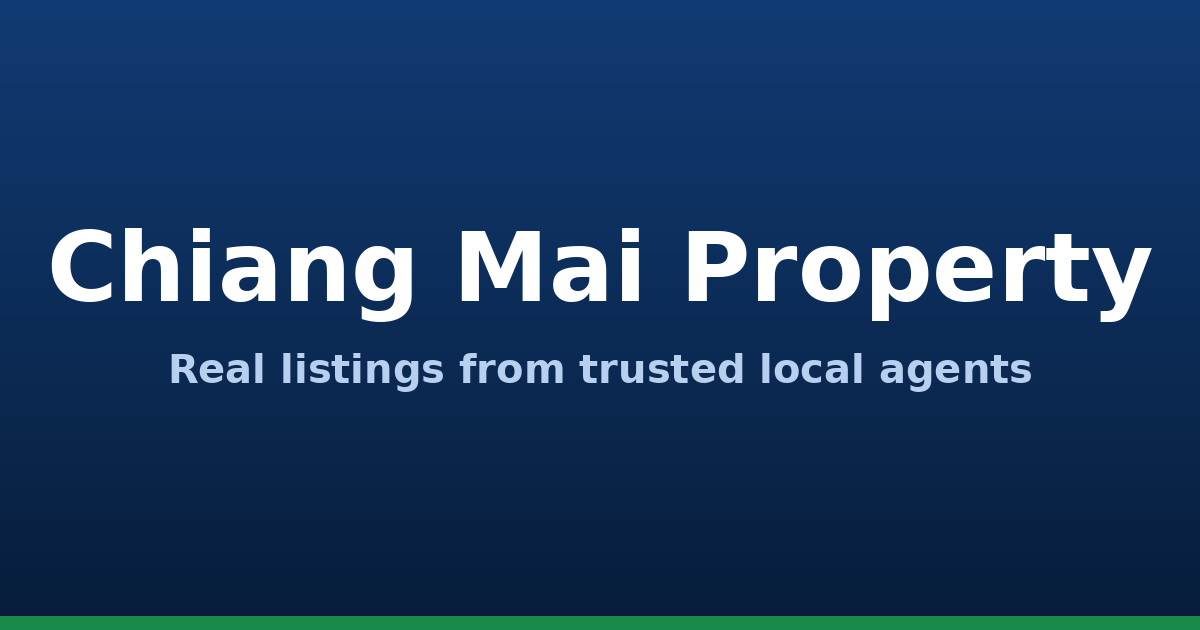
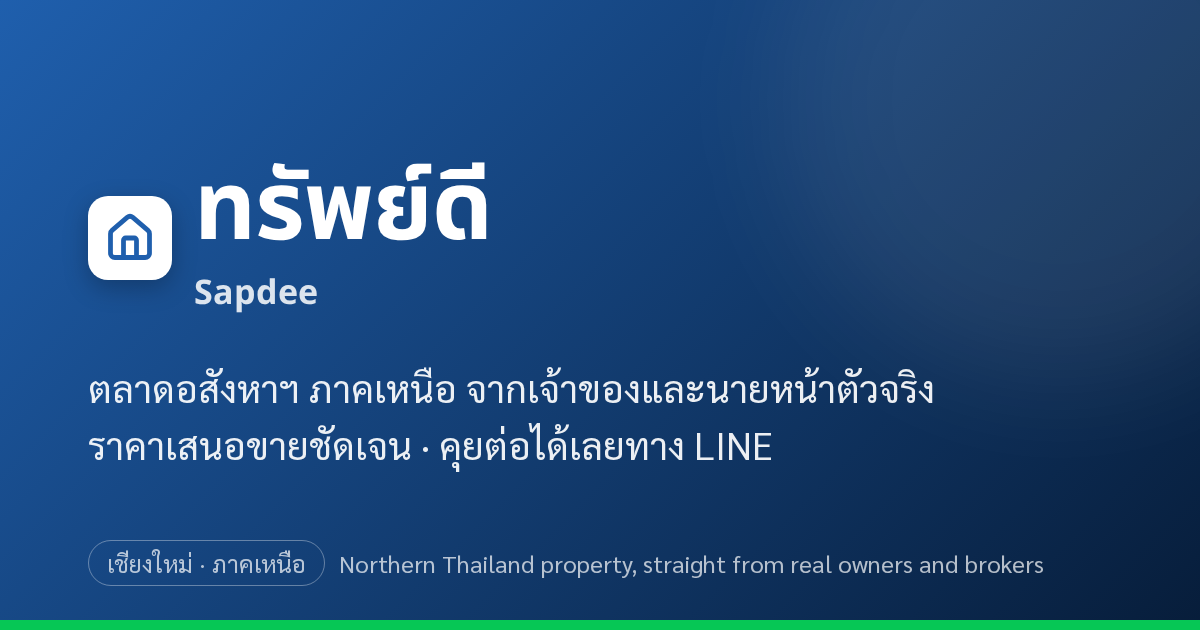
feat(website): branded Open Graph card; drop unused legacy home i18n keys
- og-default.png regenerated from an HTML card with the brand gradient, mark, ทรัพย์ดี/Sapdee
  wordmark and tagline in the site fonts (was a generic 'Chiang Mai Property' image). Script:
  e2e/adhoc/og-image.mjs.
- home.title / home.description / home.preparing had no remaining consumers.

diff --git a/packages/ui/src/i18n/th.ts b/packages/ui/src/i18n/th.ts
@@ -86,9 +86,6 @@ export const th = {
   "error.retry": "ลองใหม่",
 
   // Public website (Stage 4)
-  "home.title": "ประกาศอสังหาริมทรัพย์",
-  "home.description": "ค้นหาบ้าน ที่ดิน คอนโด จากเจ้าของโดยตรง",
-  "home.preparing": "กำลังเตรียมรายการประกาศ",
   "filter.dealType": "ซื้อ/เช่า",
   "filter.province": "จังหวัด",
   "filter.search": "ค้นหา",

diff --git a/packages/ui/src/i18n/en.ts b/packages/ui/src/i18n/en.ts
@@ -65,9 +65,6 @@ export const en: Record<keyof typeof th, string> = {
   "error.why": "A temporary connection problem",
   "error.retry": "Retry",
 
-  "home.title": "Property Listings",
-  "home.description": "Browse houses, land and condos directly from owners",
-  "home.preparing": "Listing grid coming online",
   "filter.dealType": "Buy/Rent",
   "filter.province": "Province",
   "filter.search": "Search",
